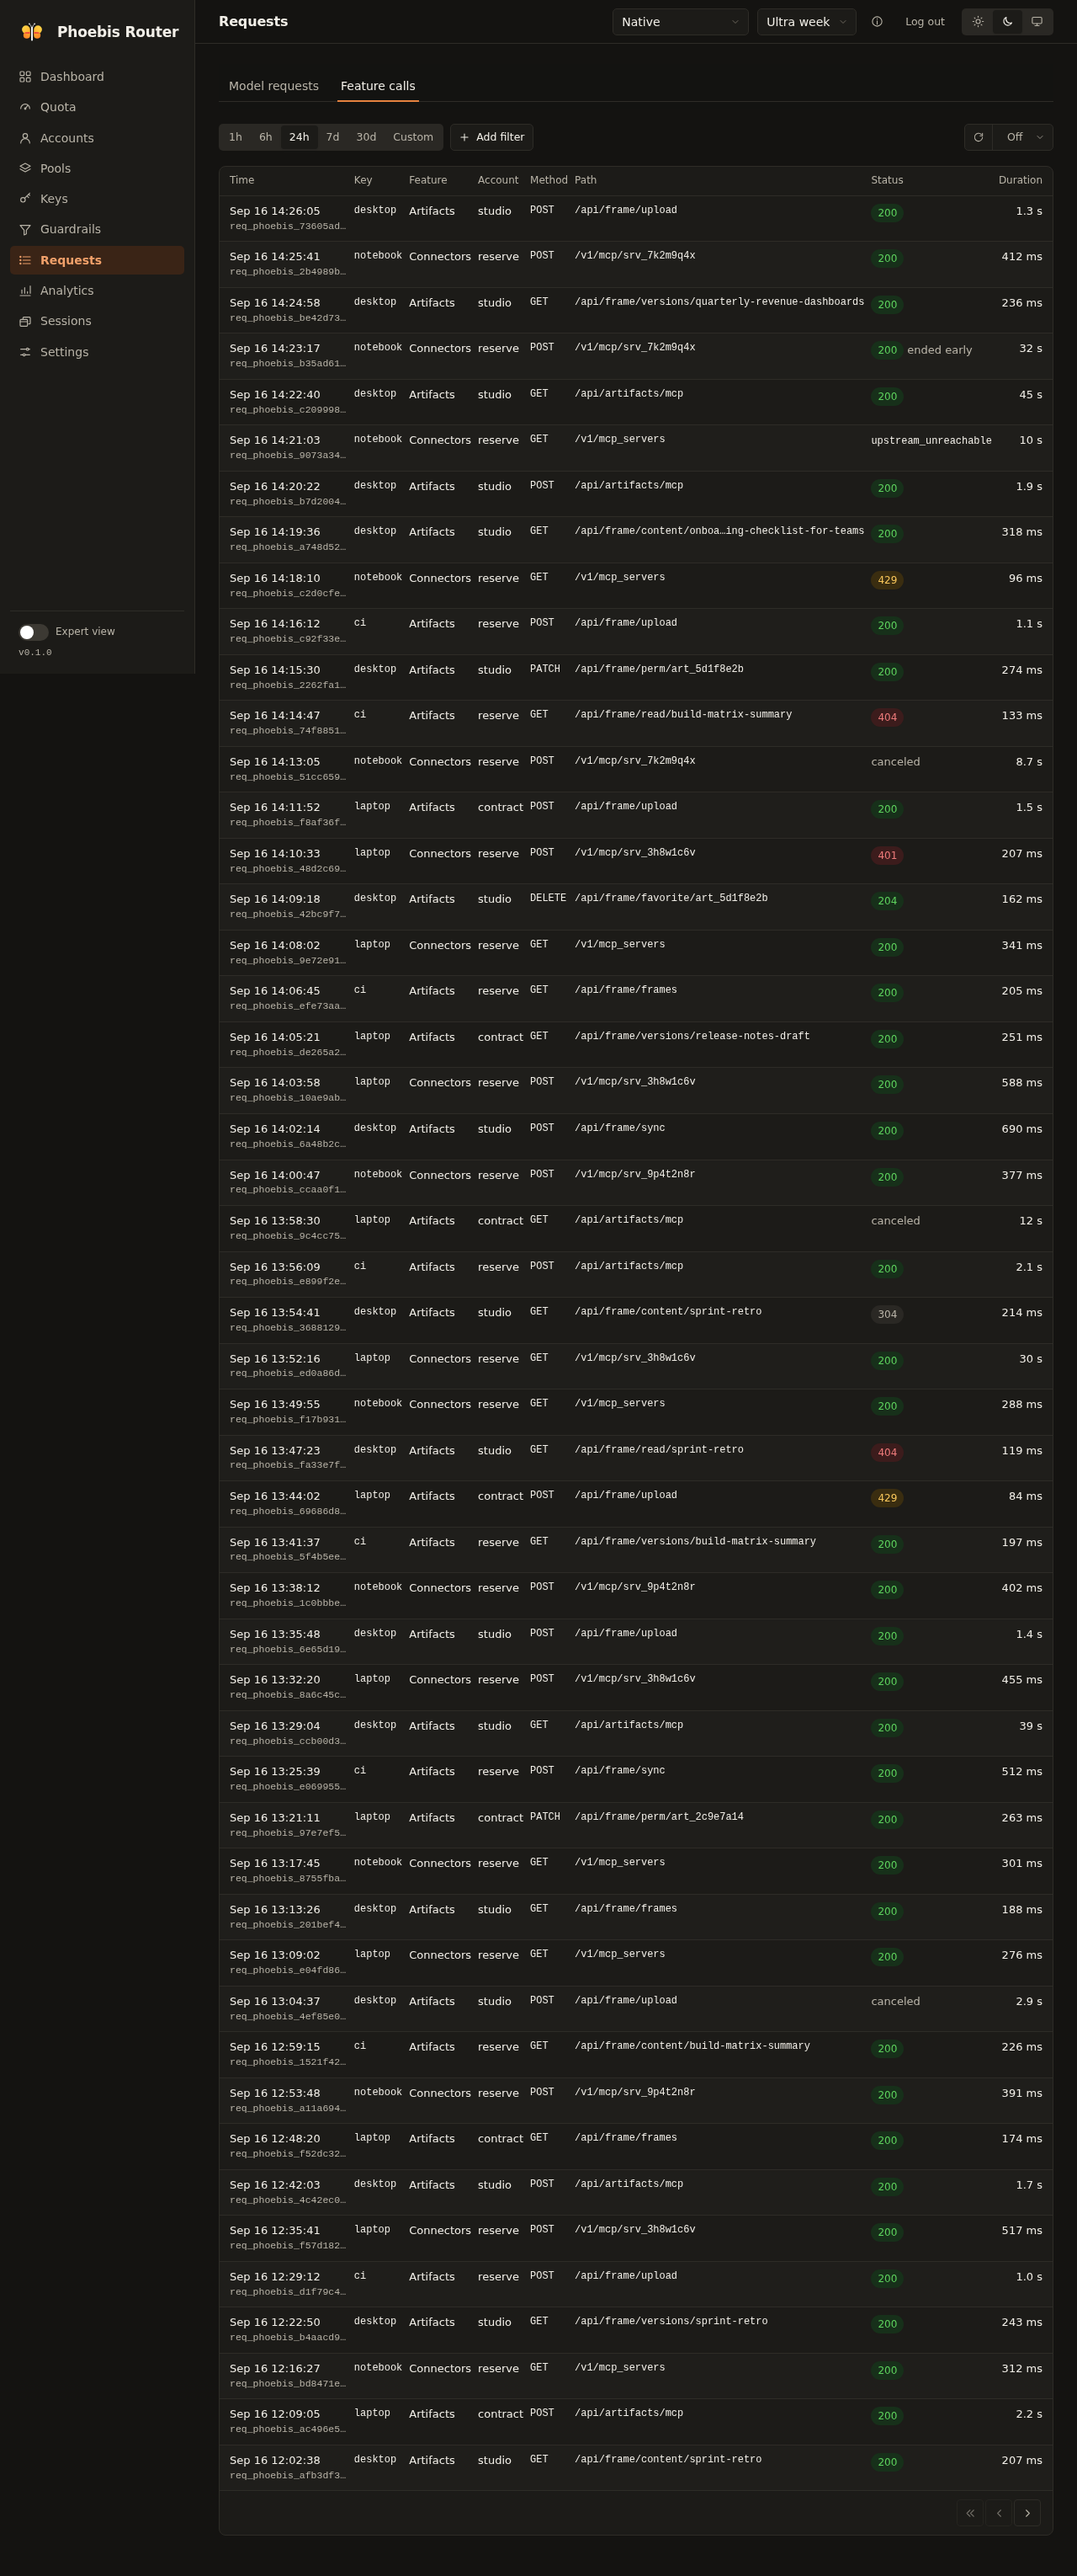
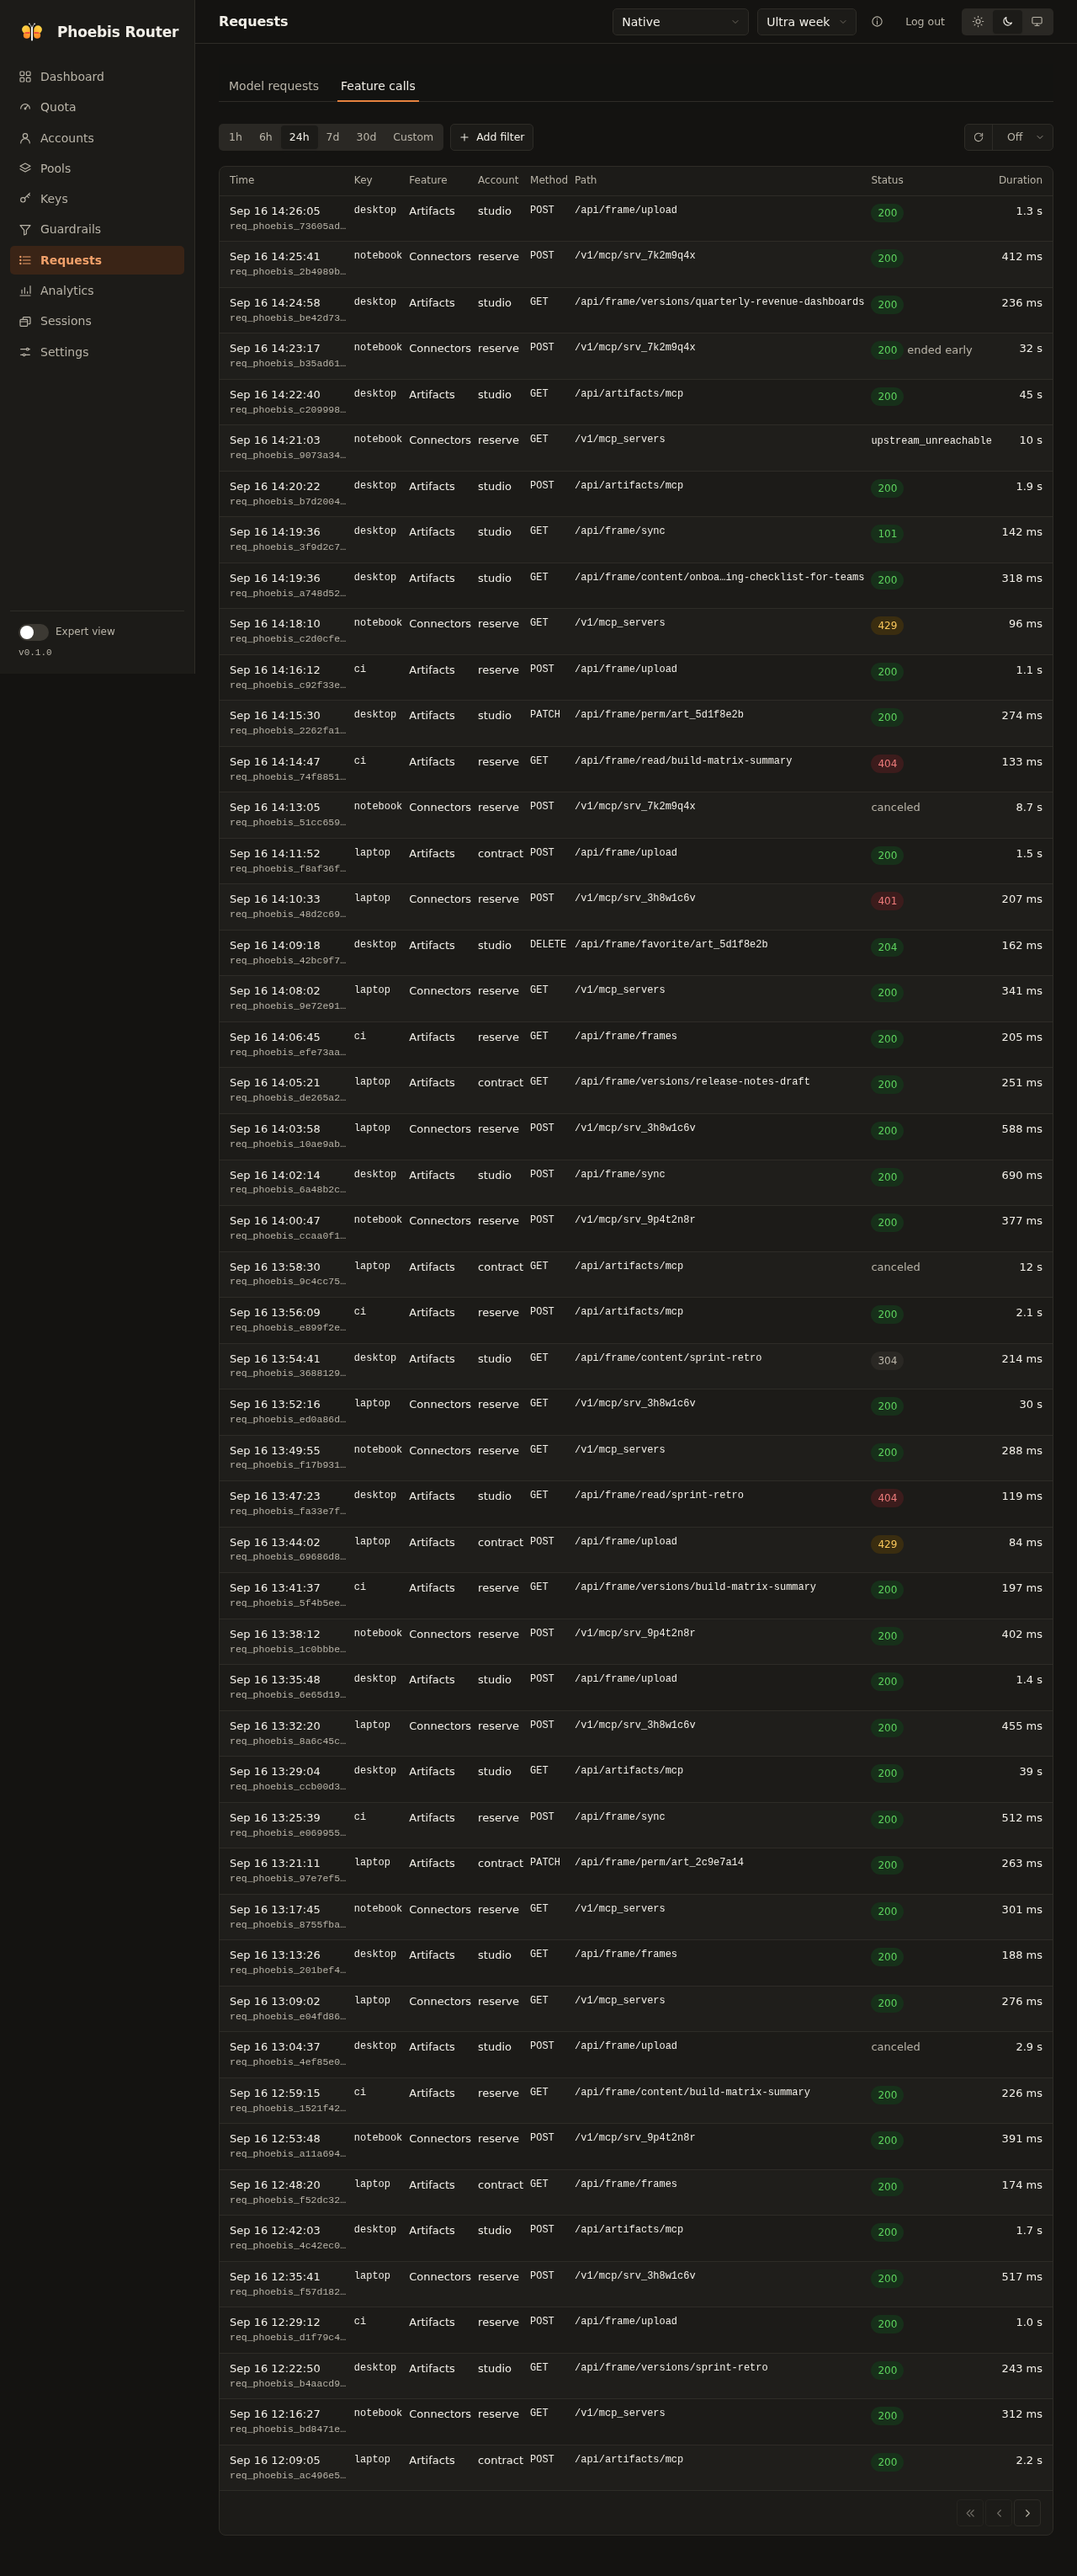
Draw an open socket's 101 in the good tone of the feature calls
A watch's socket leaves one row of the feature call list, written at
the upstream's 101 while the socket stays open. The status badge read
a status by its class and sent each status under 200 to the critical
tone, so a connected watch read as a refused call.

A status from 100 to 199 now takes the good tone beside the 2xx. The
row ends at the 101, so its Status cell reads the same while the
socket is open and after it closed.

The mock's feature calls gain one watch row, 200 ms behind a content
read of the desktop key, and the smoke's paging pin moves by the row.
One smoke case reads the row's tone. The admin API's entry says that
status holds 101 for a socket and that duration_ms then runs to the
101, and the console page says the same. The Feature calls pictures
are taken again.

diff --git a/web/src/mock/requests.ts b/web/src/mock/requests.ts
@@ -3671,10 +3671,10 @@ export function capturedBodiesFor(request: RequestLog): CapturedBodies | null {
  * the request rows. Each pairs a key with the account its pool's or its own selection resolves for the feature: desktop
  * with studio for artifacts, laptop with contract for artifacts and with reserve for connectors, ci with reserve for
  * artifacts before its revocation, and notebook with reserve for connectors. A key whose calls are refused (batch's
- * signed-out legacy) leaves no row. The 64 rows run past the page of 50, and the newest 50 hold both shapes of a
- * failed call, canceled calls, the statuses 200, 204, 304, 401, 404 and 429, which a status badge draws in each of its
- * tones, and a path of 48 characters beside one of 49, which the list cuts. Every row lies inside the default day and
- * after the desktop key's creation.
+ * signed-out legacy) leaves no row. The 65 rows run past the page of 50, and the newest 50 hold both shapes of a
+ * failed call, canceled calls, the statuses 101, 200, 204, 304, 401, 404 and 429, which a status badge draws in each
+ * of its tones, and a path of 48 characters beside one of 49, which the list cuts. Every row lies inside the default
+ * day and after the desktop key's creation.
  */
 export const FEATURE_CALLS: FeatureCall[] = [
   { accountId: 'studio', durationMs: 1_284, errorCode: null, feature: 'artifacts', id: 'req_phoebis_73605ad9e70226ee8098aaa84904e49e', keyId: 'desktop', method: 'POST', outcome: 'forwarded', path: '/api/frame/upload', receivedAt: iso(clock(14, 26, 5)), status: 200 },
@@ -3686,6 +3686,8 @@ export const FEATURE_CALLS: FeatureCall[] = [
   // No upstream head arrived, so the router answered the 502 itself.
   { accountId: 'reserve', durationMs: 10_004, errorCode: 'upstream_unreachable', feature: 'connectors', id: 'req_phoebis_9073a3408c08f2dbb0f9bd0c0c1d6aa7', keyId: 'notebook', method: 'GET', outcome: 'failed', path: '/v1/mcp_servers', receivedAt: iso(clock(14, 21, 3)), status: null },
   { accountId: 'studio', durationMs: 1_903, errorCode: null, feature: 'artifacts', id: 'req_phoebis_b7d2004350f7794871dac7ab2f303f1e', keyId: 'desktop', method: 'POST', outcome: 'forwarded', path: '/api/artifacts/mcp', receivedAt: iso(clock(14, 20, 22)), status: 200 },
+  // A watch's socket, whose row ends at the 101, so its duration holds none of the time the socket stays open.
+  { accountId: 'studio', durationMs: 142, errorCode: null, feature: 'artifacts', id: 'req_phoebis_3f9d2c71e6a84b05c8e1a7d4b2f60e93', keyId: 'desktop', method: 'GET', outcome: 'forwarded', path: '/api/frame/sync', receivedAt: iso(clock(14, 19, 36) + 200), status: 101 },
   { accountId: 'studio', durationMs: 318, errorCode: null, feature: 'artifacts', id: 'req_phoebis_a748d522f0c028b6bd857780f83db477', keyId: 'desktop', method: 'GET', outcome: 'forwarded', path: '/api/frame/content/onboarding-checklist-for-teams', receivedAt: iso(clock(14, 19, 36)), status: 200 },
   { accountId: 'reserve', durationMs: 96, errorCode: null, feature: 'connectors', id: 'req_phoebis_c2d0cfefc1cd4ffb982d93fde0ddee67', keyId: 'notebook', method: 'GET', outcome: 'forwarded', path: '/v1/mcp_servers', receivedAt: iso(clock(14, 18, 10)), status: 429 },
   { accountId: 'reserve', durationMs: 1_122, errorCode: null, feature: 'artifacts', id: 'req_phoebis_c92f33ee3b33a5eac5fbe885a2b79724', keyId: 'ci', method: 'POST', outcome: 'forwarded', path: '/api/frame/upload', receivedAt: iso(clock(14, 16, 12)), status: 200 },

diff --git a/web/src/components/ui/AttemptTrail.tsx b/web/src/components/ui/AttemptTrail.tsx
@@ -29,9 +29,10 @@ export const OUTCOME_LABEL: Record<AttemptOutcome, string> = {
 /** The words of a cooldown an attempt set, which the trail's lines and the request drawer's Attempts rows share. */
 export const cooldownLine = (c: { reason: string; until: string }): string => `cooldown set, ${c.reason}, until ${fmtAbsolute(c.until)}`;
 
-// A feature host answers successes past 200 and redirects, which no model request holds, so a status reads by class.
+// A feature host answers an open socket's 101, successes past 200 and redirects, which no model request holds, so a
+// status reads by class.
 const statusTone = (status: number | null): BadgeTone =>
-  status === null ? 'neutral' : status >= 200 && status < 300 ? 'good' : status >= 300 && status < 400 ? 'neutral' : status === 429 ? 'warning' : status === 529 ? 'serious' : 'critical';
+  status === null ? 'neutral' : status >= 100 && status < 300 ? 'good' : status >= 300 && status < 400 ? 'neutral' : status === 429 ? 'warning' : status === 529 ? 'serious' : 'critical';
 
 export function StatusBadge({ status, attempts = 1 }: { attempts?: number; status: number | null }) {
   return (

diff --git a/crates/admin/src/feature_calls.rs b/crates/admin/src/feature_calls.rs
@@ -31,6 +31,7 @@ pub(crate) struct FeatureCallList {
 #[serde(deny_unknown_fields)]
 pub(crate) struct FeatureCallEntry {
     pub account_id: String,
+    /// The time in milliseconds from the call's arrival to the answer's end, or to the upstream's `101` for a socket.
     pub duration_ms: i64,
     /// The router's code where it answered a forward that could not complete.
     pub error_code: Option<String>,
@@ -44,7 +45,7 @@ pub(crate) struct FeatureCallEntry {
     /// The path without its query.
     pub path: String,
     pub received_at: i64,
-    /// Null where no upstream head arrived.
+    /// Null where no upstream head arrived. A socket's row holds 101 while the socket is open and after it closed.
     pub status: Option<u16>,
 }
 

diff --git a/docs/site/console.md b/docs/site/console.md
@@ -1145,8 +1145,9 @@ query in the monospace face, cut in the middle past 48 characters and whole on h
 call's arrival to the answer's end. Status reads the status for a forwarded call and `canceled` for a call whose client
 left before the answer's end. A failed call reads its code, `upstream_unreachable`, where no upstream head arrived and
 the router answered with a 502, and its status with `ended early` behind it, such as `200 ended early`, where the answer
-stopped after its head went back. A call the router refused leaves no row, and a row opens no drawer, since the table
-shows all the row holds.
+stopped after its head went back. A session's watch of an artifact reads as one row with the status 101, written when
+the socket opens, and Duration is then the time to the `101`. A call the router refused leaves no row, and a row opens
+no drawer, since the table shows all the row holds.
 
 ![The Requests view: the Feature calls section on its first page](assets/requests-feature-calls-light.png#only-light)
 ![The Requests view: the Feature calls section on its first page](assets/requests-feature-calls-dark.png#only-dark)
